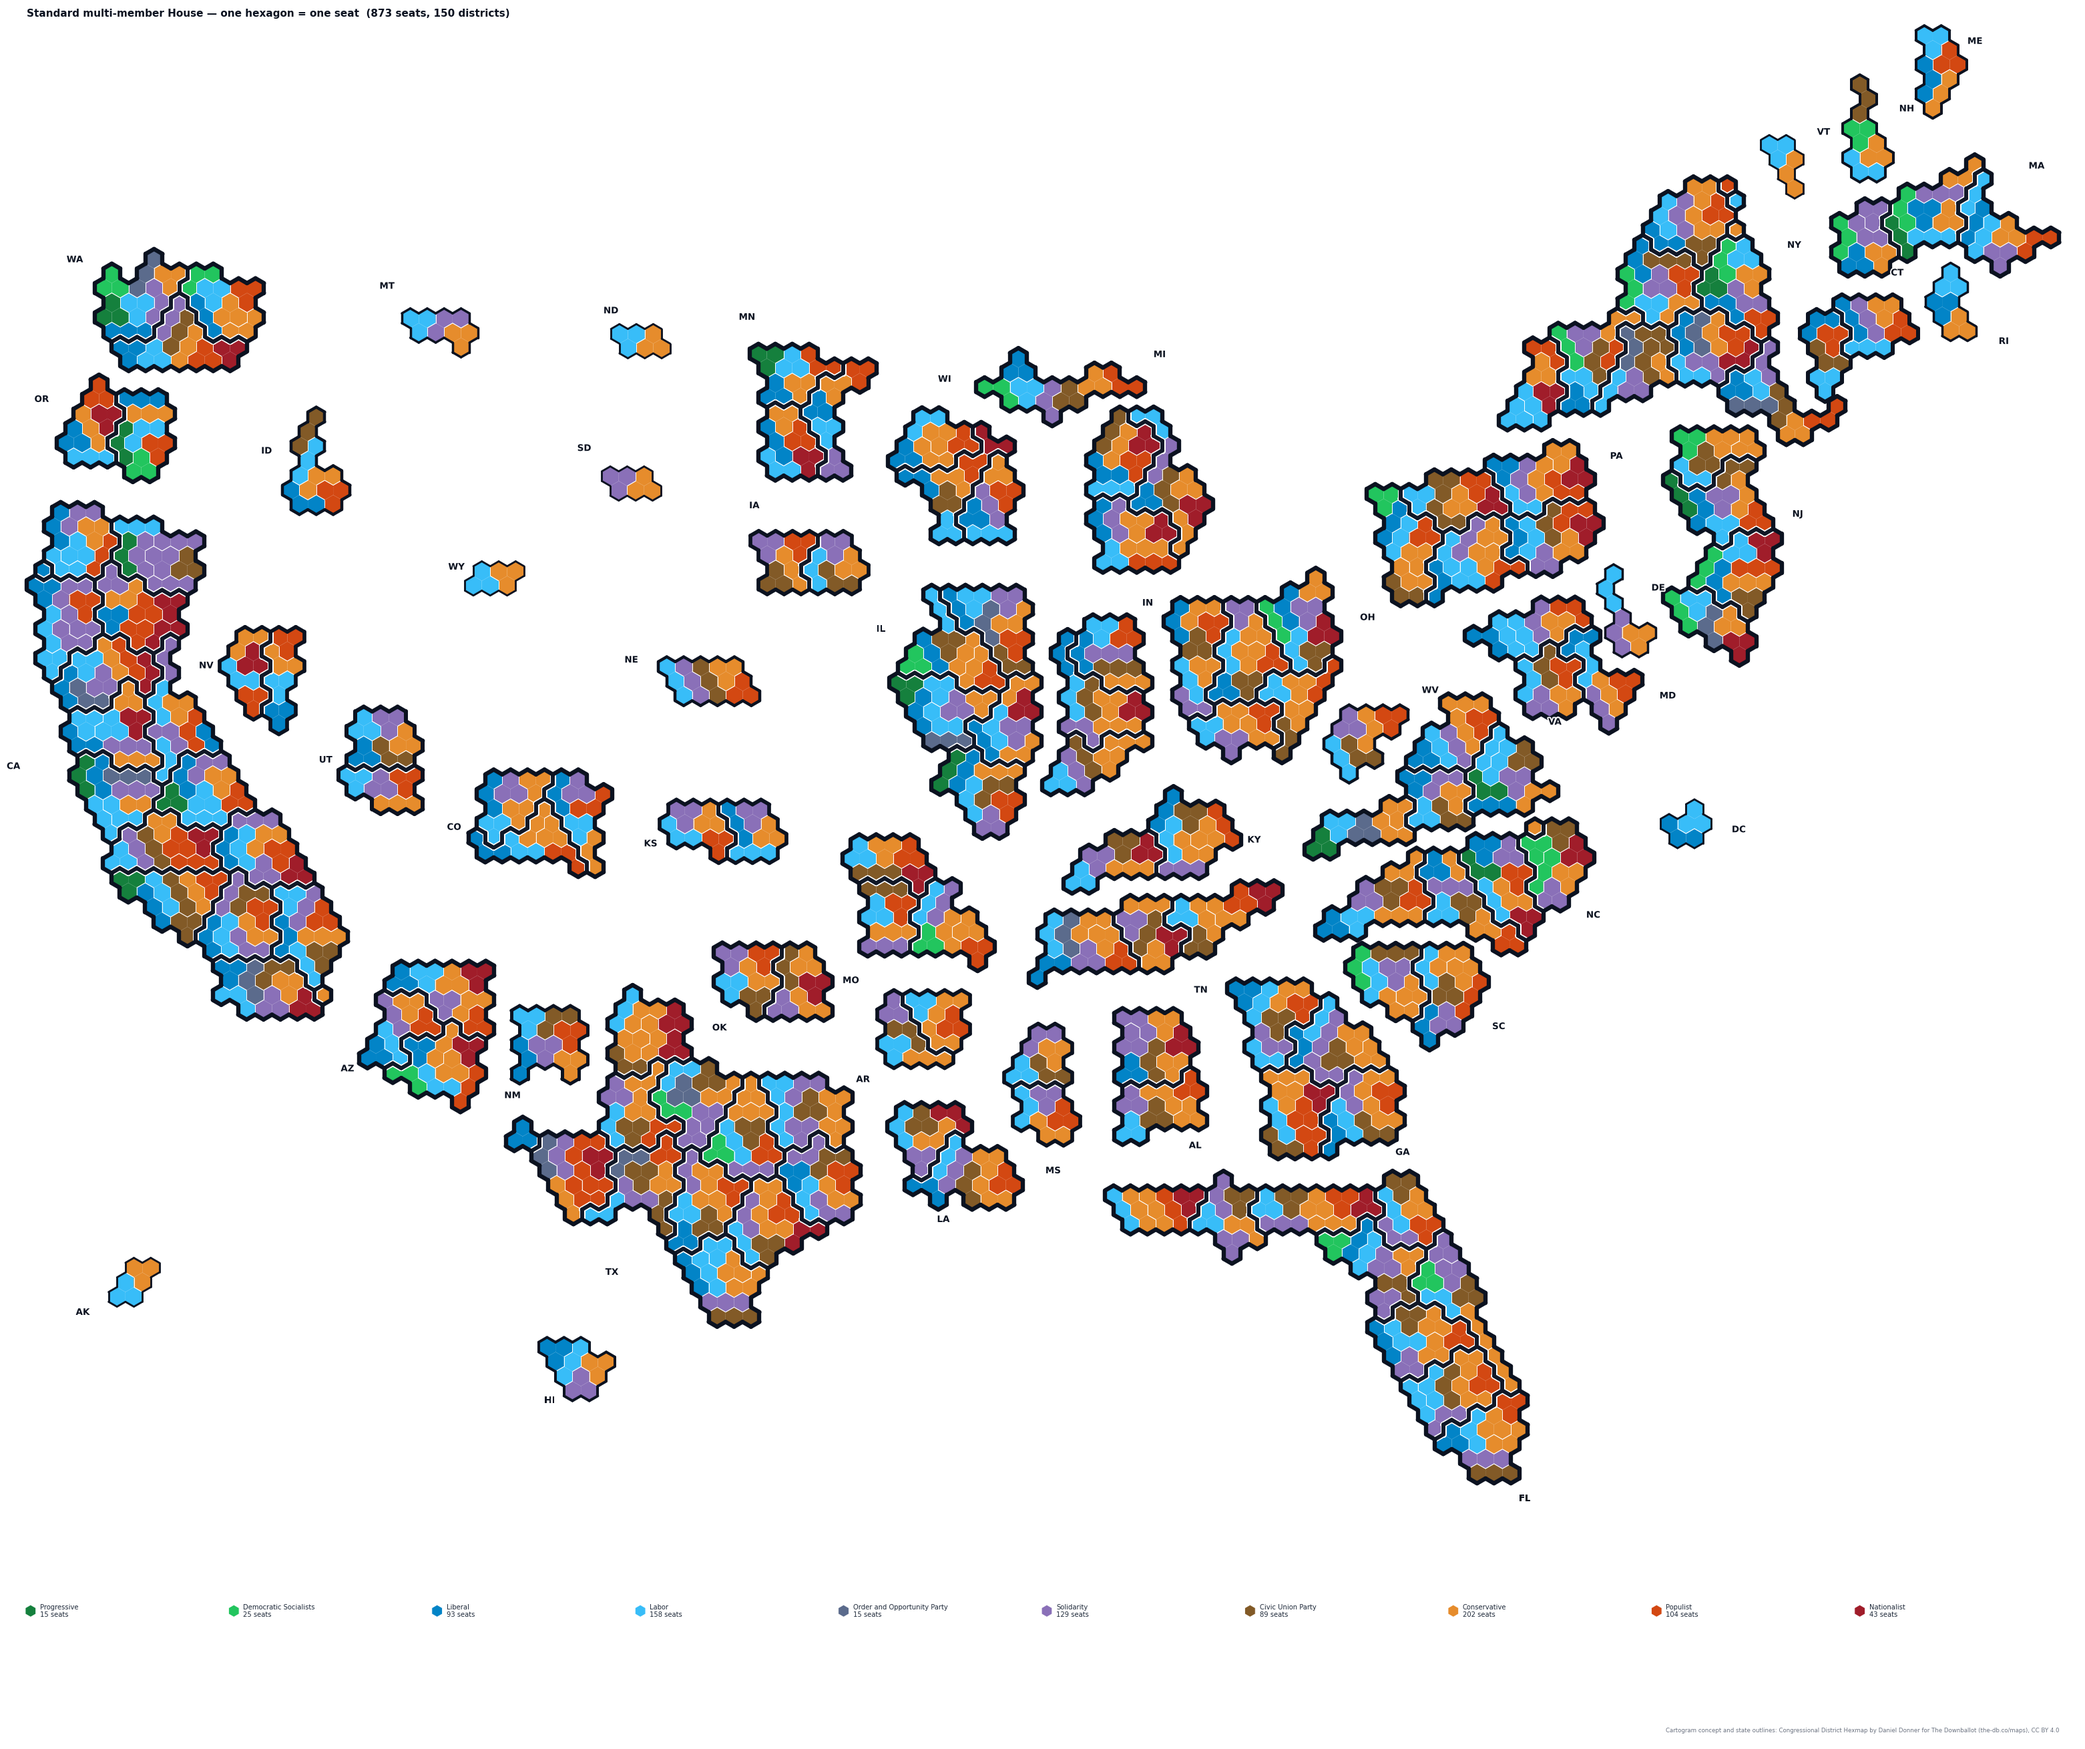
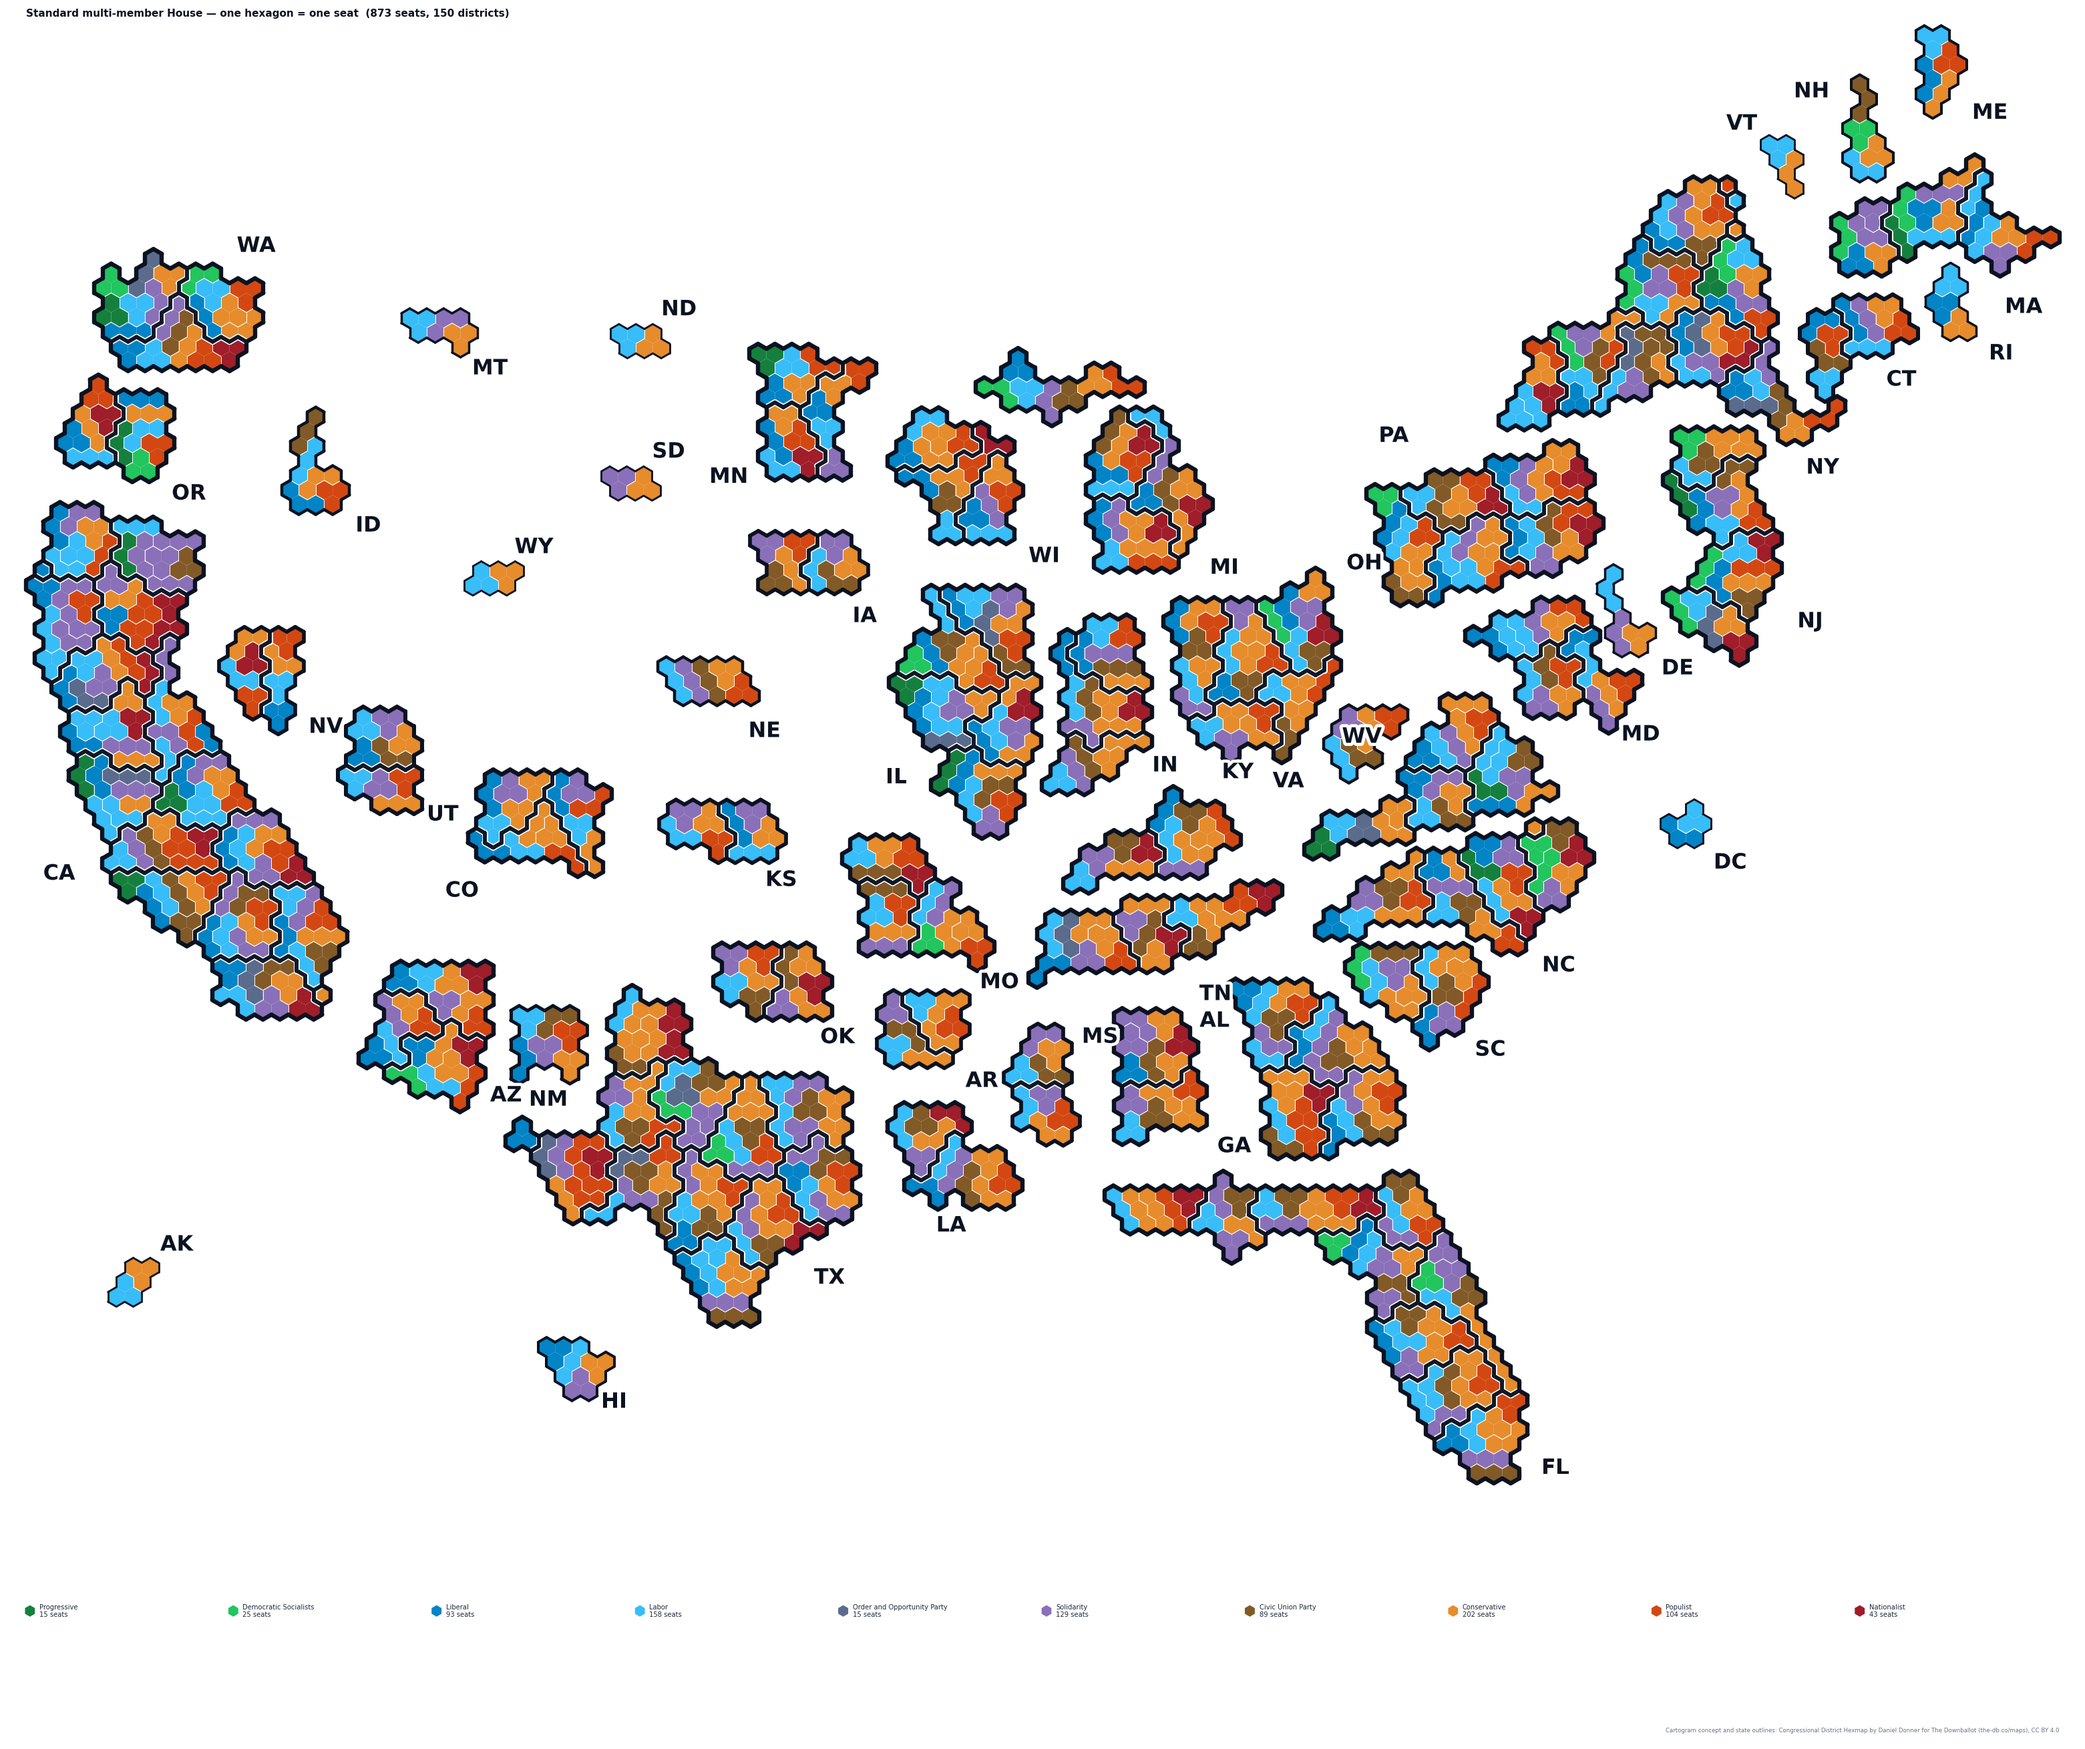
Make state labels legible and prefer bottom-right placement
Labels were sized off the line-weight scale and came out tiny. They now take a
--label-size (default 17pt at the reference scale) and are placed by fixed preference
- bottom-right for every state that can take it, then the other corners - so the eye
learns where to look instead of chasing labels around each shape.

Clearance is tested against both the tiles and the already-placed labels, with the
largest states claiming their preferred slot first; testing only against tiles had
NM/AZ, VA/WV and AL/GA printing on top of each other.

diff --git a/pipeline/render_hex_seat_cartogram.py b/pipeline/render_hex_seat_cartogram.py
@@ -97,6 +97,8 @@ def main():
     ap.add_argument("--no-clip", action="store_true",
                     help="let hexagons extend past the state border instead of being "
                          "clipped to it")
+    ap.add_argument("--label-size", type=float, default=17.0,
+                    help="state label point size at the reference scale")
     ap.add_argument("--explode", type=float, default=1.0,
                     help="push states apart from the map centre by this factor "
                          "(1.0 = touching as drawn, 1.08 = a visible gap)")
@@ -248,48 +250,68 @@ def main():
                         solid_capstyle="round", solid_joinstyle="round")
 
     if not args.no_labels:
-        # Labels outside the state, as the published hexmap does: a label sitting on top
-        # of the tiles competes with ten party fills, and a state only two hexes wide has
-        # nowhere legible to put it. Each label is pushed out along the direction away
-        # from the map centre, then rotated to the first angle that clears every state's
-        # hexes so labels do not land on a neighbour.
-        occupied = []
-        for ab2, st2 in data["states"].items():
-            for c in st2["cells"]:
-                occupied.append(shift(ab2, hex_center(c["col"], c["row"], R, x0, y0)))
+        # Labels outside the state, as the published hexmap does: a label on top of the
+        # tiles competes with ten party fills, and a two-hex state has nowhere legible to
+        # put one. Placement is by fixed preference — bottom-right for every state that
+        # can take it, so the eye learns where to look — falling back through the other
+        # corners only where a neighbour is in the way.
+        DIRECTIONS = [(0.71, -0.71), (-0.71, -0.71), (0.71, 0.71), (-0.71, 0.71),
+                      (0.0, -1.0), (1.0, 0.0), (0.0, 1.0), (-1.0, 0.0)]
+        occupied = np.array([shift(ab2, hex_center(c["col"], c["row"], R, x0, y0))
+                             for ab2, st2 in data["states"].items()
+                             for c in st2["cells"]])
 
-        def clear_of_states(pt, need):
-            return all((pt[0] - ox) ** 2 + (pt[1] - oy) ** 2 > need * need
-                       for ox, oy in occupied)
-
-        for ab, st in sorted(data["states"].items()):
+        # Point size → degrees, so the clearance test knows how big the text really is.
+        deg_per_pt = 100.0 / (72.0 * args.px_per_deg)
+        fs = args.label_size * lw
+        lab_h = fs * deg_per_pt
+        # Big states first, so they get the preferred bottom-right slot and the small
+        # ones adapt around them.
+        by_size = sorted(data["states"].items(),
+                         key=lambda kv: (-len({c["core"] for c in kv[1]["cells"]
+                                               if c["isCore"]}), kv[0]))
+        placements, taken_boxes = {}, []
+        for ab, st in by_size:
             cx, cy = shift(ab, centroids[ab])
             pts = [shift(ab, p) for p in core_centres(st)]
-            base = math.atan2(cy - map_cy, cx - map_cx)
-            if math.hypot(cx - map_cx, cy - map_cy) < R:
-                base = -math.pi / 2                       # dead centre: drop it below
-            placed = None
-            for step in [0, 1, -1, 2, -2, 3, -3, 4, -4, 5, -5, 6]:
-                ang = base + step * math.pi / 6
-                dx, dy = math.cos(ang), math.sin(ang)
-                # How far the state reaches in this direction, then a little beyond.
+            lab_w = 0.68 * lab_h * len(ab)
+            chosen = None
+            for dx, dy in DIRECTIONS:
                 reach = max((p[0] - cx) * dx + (p[1] - cy) * dy for p in pts)
-                for extra in (1.5, 2.2, 3.0):
-                    anchor = (cx + dx * (reach + extra * R), cy + dy * (reach + extra * R))
-                    if clear_of_states(anchor, 1.35 * R):
-                        placed = (anchor, dx, dy)
-                        break
-                if placed:
+                for extra in (0.9, 1.6, 2.4):
+                    ax_, ay_ = (cx + dx * (reach + extra * R), cy + dy * (reach + extra * R))
+                    ha = "left" if dx > 0.3 else "right" if dx < -0.3 else "center"
+                    va = "bottom" if dy > 0.3 else "top" if dy < -0.3 else "center"
+                    lx0 = ax_ if ha == "left" else ax_ - lab_w if ha == "right" else ax_ - lab_w / 2
+                    ly0 = ay_ if va == "bottom" else ay_ - lab_h if va == "top" else ay_ - lab_h / 2
+                    # Clear if no hexagon centre falls inside the text box, grown by a
+                    # hexagon's reach plus a little breathing room.
+                    m = 0.95 * R
+                    hit = ((occupied[:, 0] > lx0 - m) & (occupied[:, 0] < lx0 + lab_w + m)
+                           & (occupied[:, 1] > ly0 - m) & (occupied[:, 1] < ly0 + lab_h + m))
+                    if hit.any():
+                        continue
+                    box = (lx0 - m / 2, ly0 - m / 2,
+                           lx0 + lab_w + m / 2, ly0 + lab_h + m / 2)
+                    # Labels must clear each other too, not just the tiles.
+                    if any(box[0] < b[2] and b[0] < box[2]
+                           and box[1] < b[3] and b[1] < box[3] for b in taken_boxes):
+                        continue
+                    chosen = (ax_, ay_, ha, va, box)
                     break
-            if placed is None:
-                placed = ((cx, cy), 0.0, 0.0)              # nowhere clear: fall back
-            (lx, ly), dx, dy = placed
-            ha = "left" if dx > 0.35 else "right" if dx < -0.35 else "center"
-            va = "bottom" if dy > 0.35 else "top" if dy < -0.35 else "center"
+                if chosen:
+                    break
+            if chosen is None:
+                chosen = (cx, cy, "center", "center", None)
+            if chosen[4]:
+                taken_boxes.append(chosen[4])
+            placements[ab] = chosen[:4]
+
+        for ab, (lx, ly, ha, va) in placements.items():
             ax.text(lx, ly, ab, ha=ha, va=va, zorder=6,
-                    fontsize=7.2 * lw, fontweight="bold", color="#0b1220",
+                    fontsize=fs, fontweight="bold", color="#0b1220",
                     path_effects=[matplotlib.patheffects.withStroke(
-                        linewidth=2.0 * lw, foreground="white")])
+                        linewidth=0.30 * fs, foreground="white")])
 
     # Legend: one swatch per party, left→right ideological order, with seat totals.
     total = sum(tally.values())
